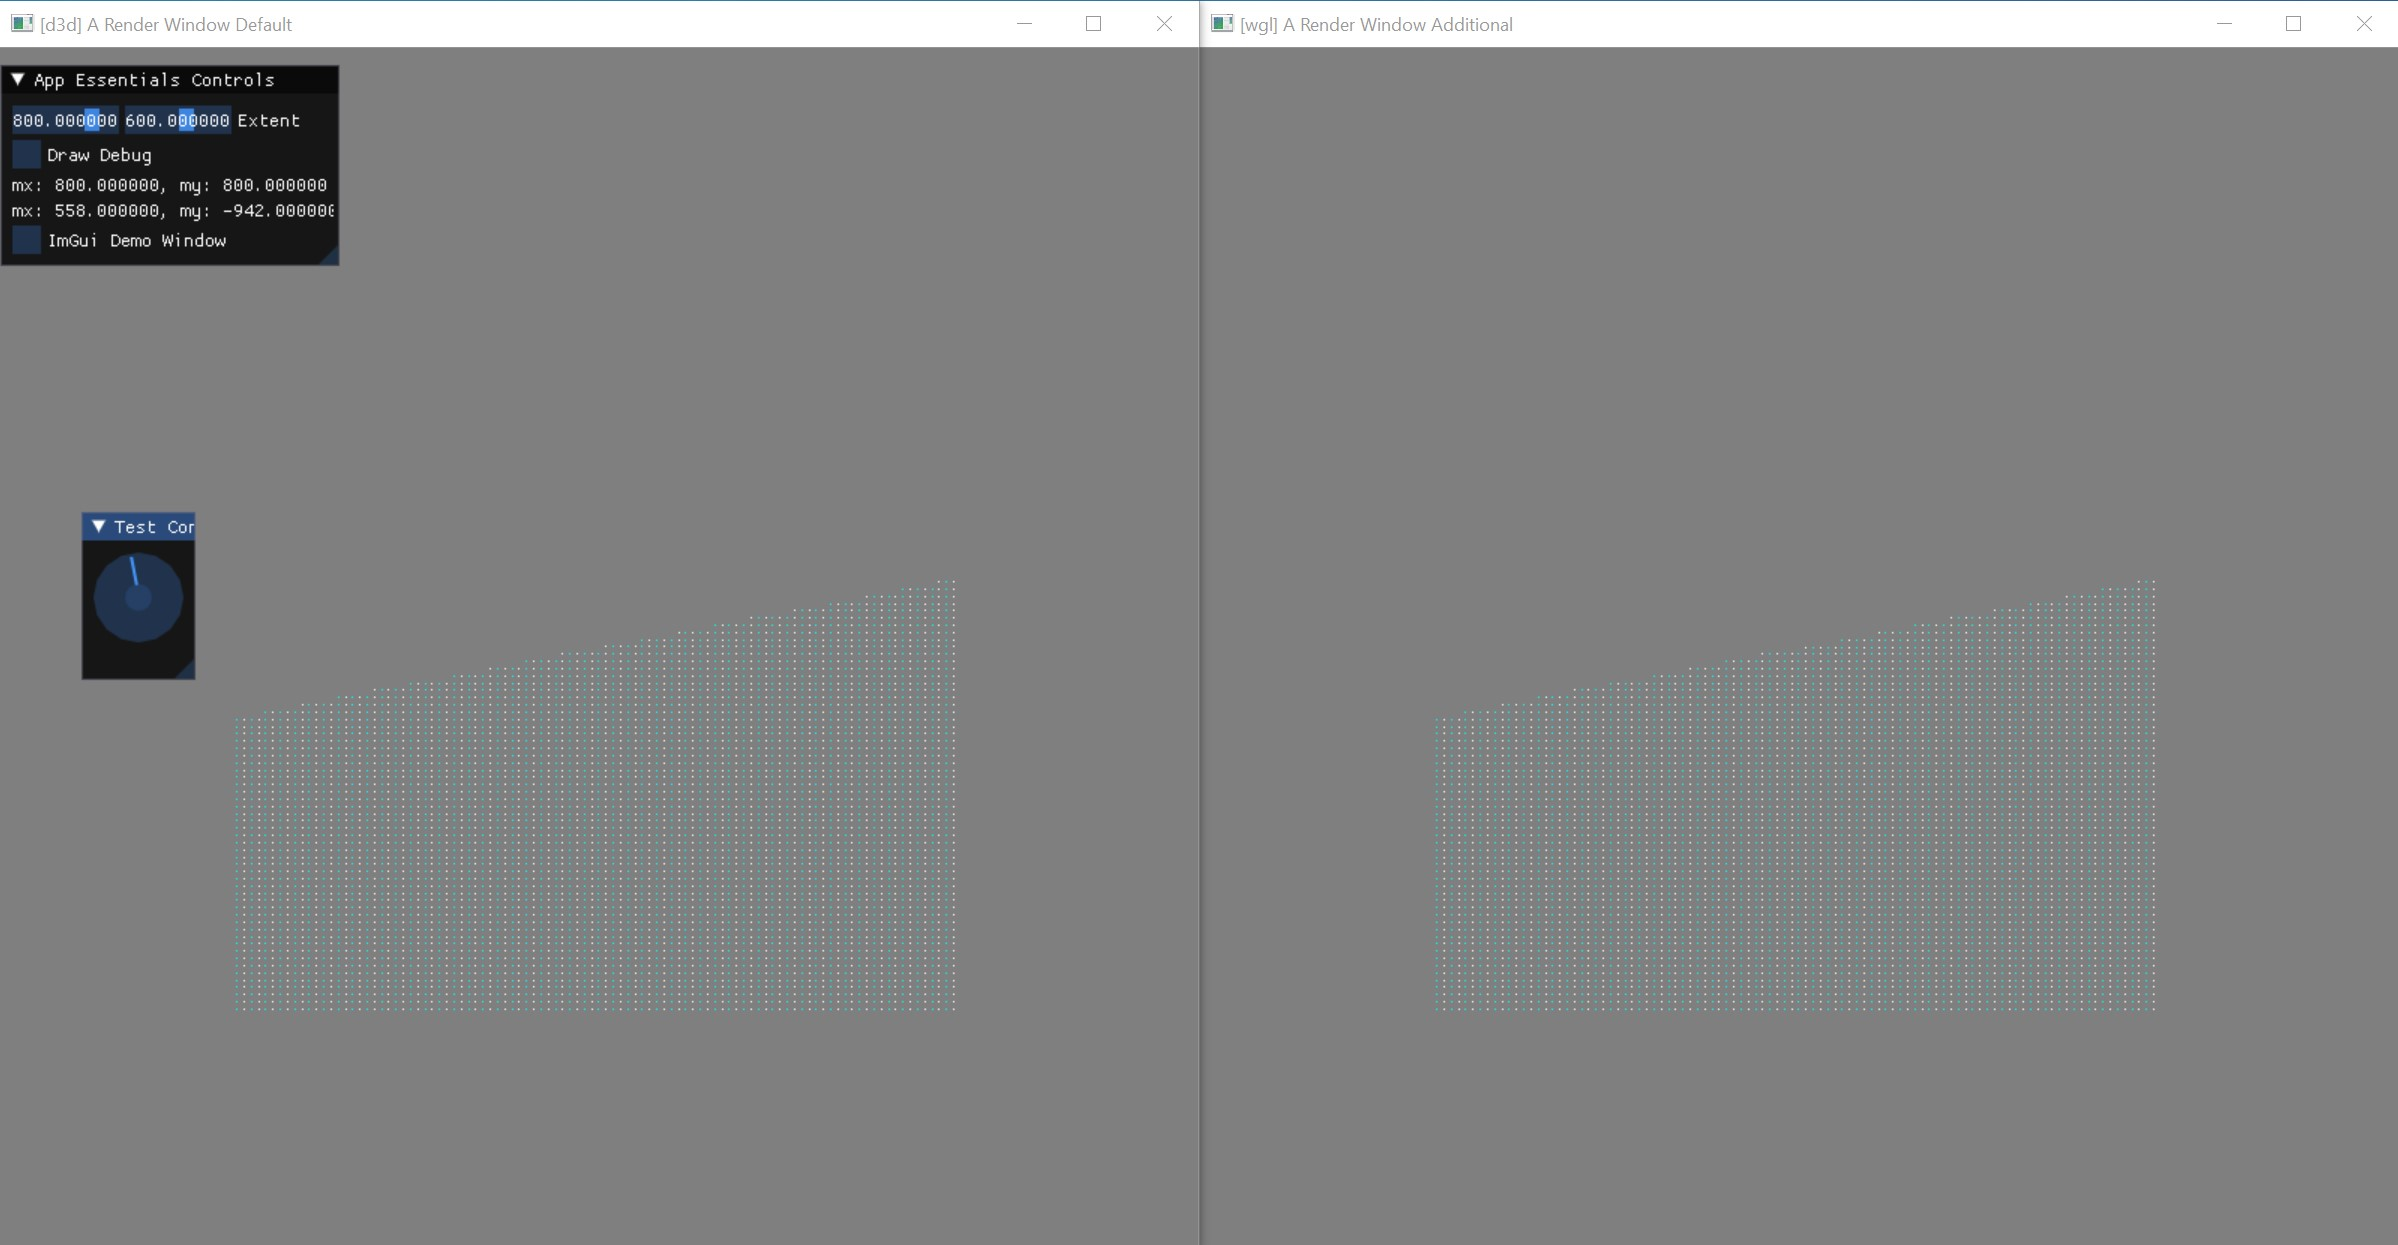
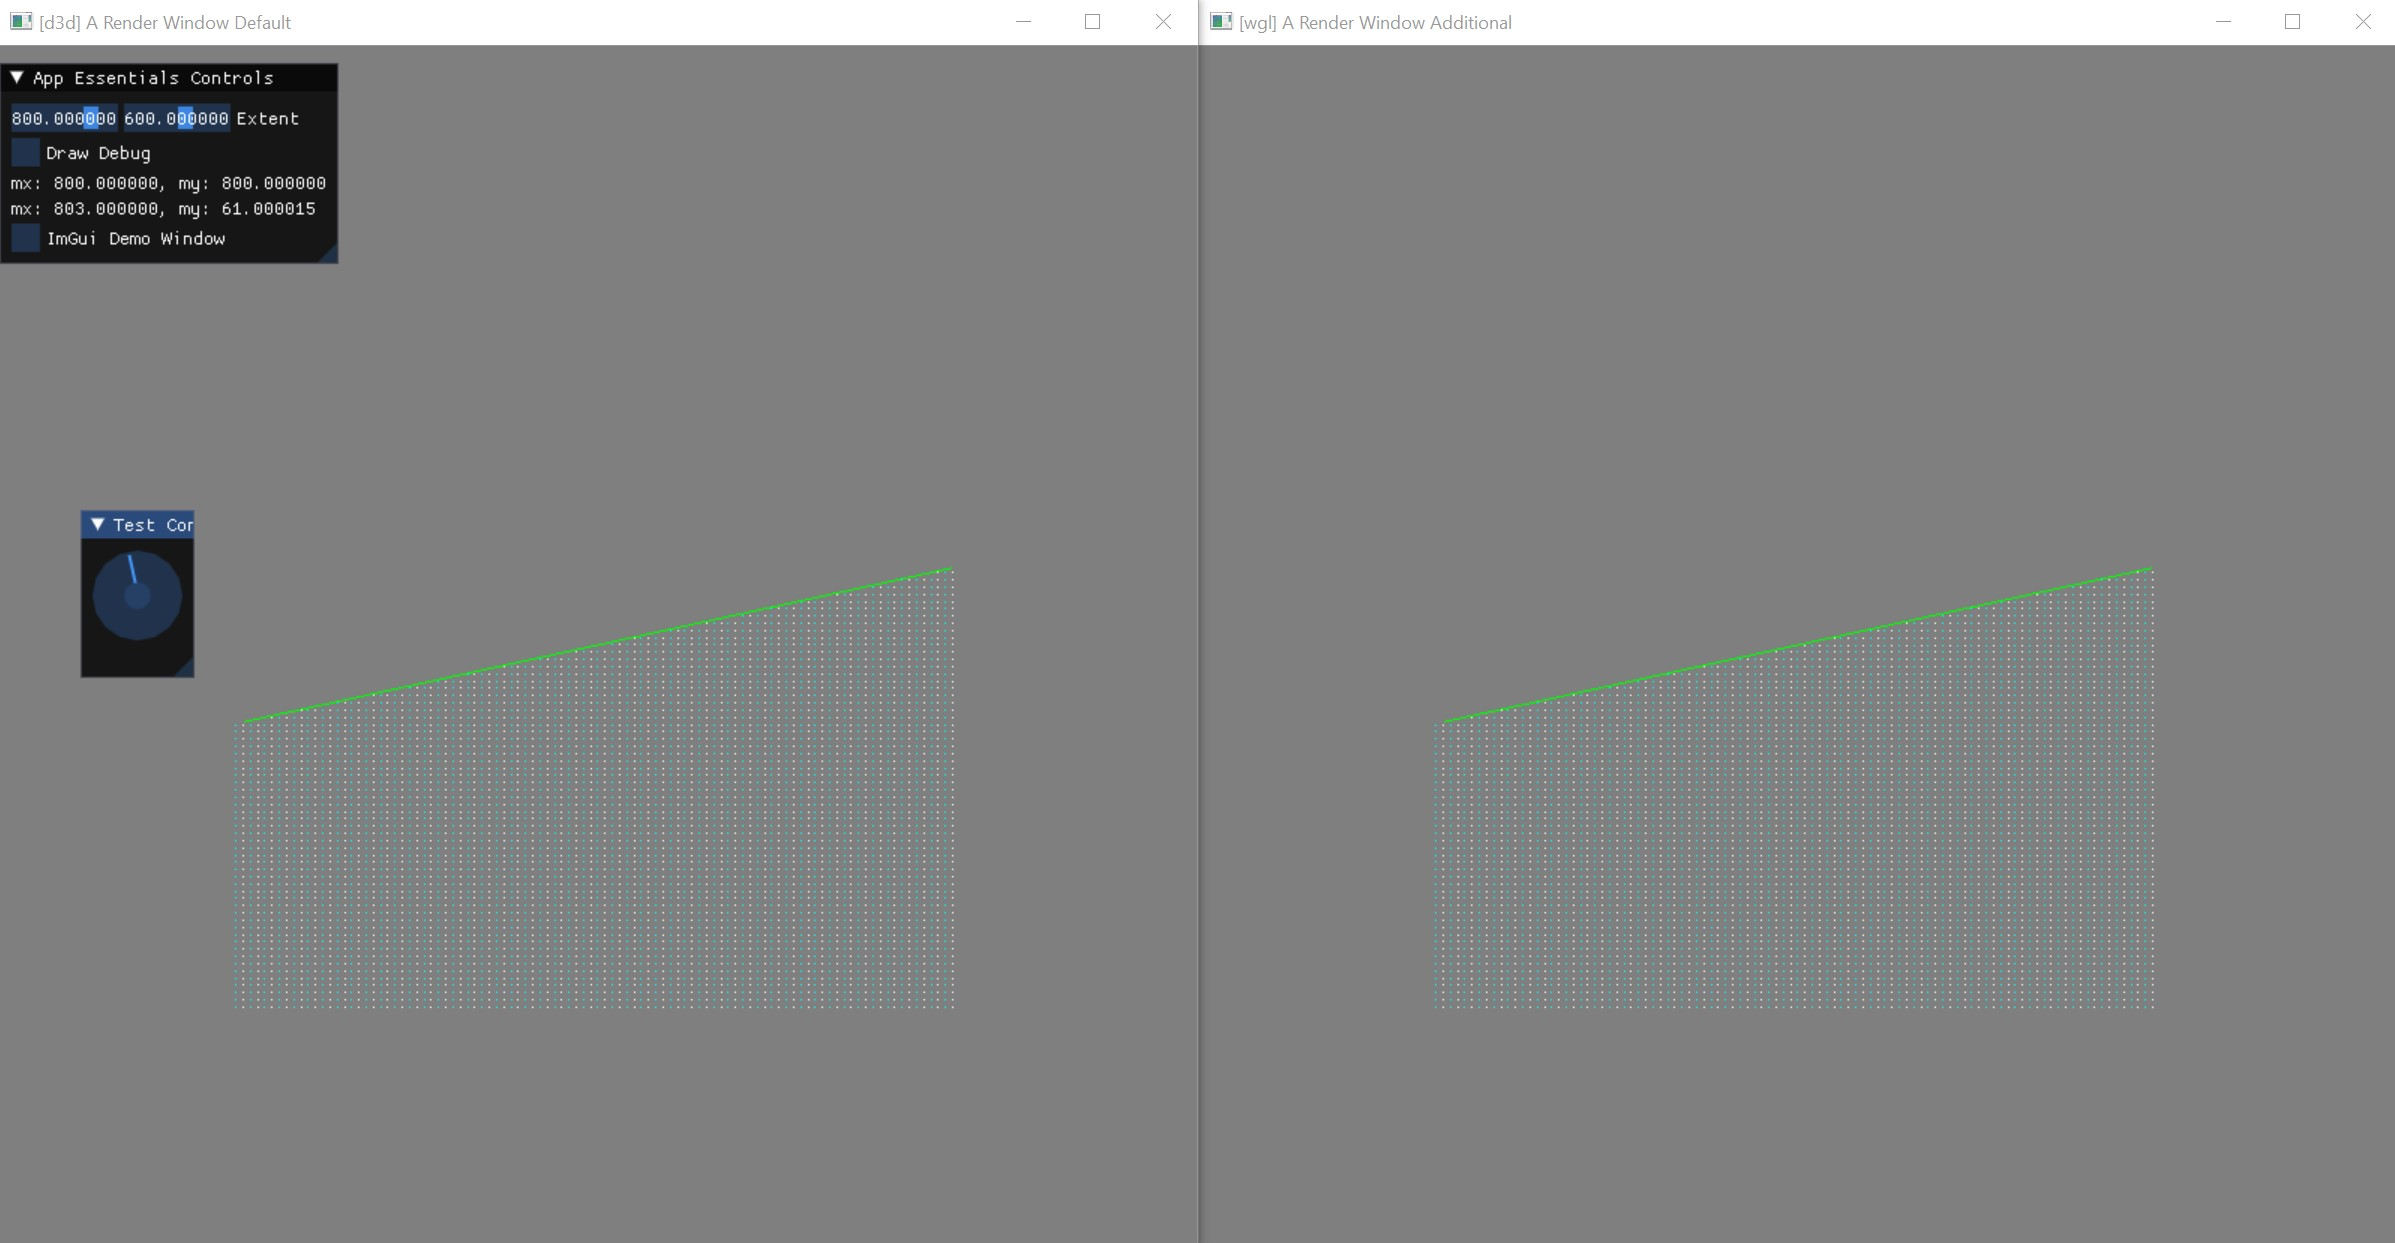
drawing the plane line and new image

diff --git a/33_3_geometry_shader/main.cpp b/33_3_geometry_shader/main.cpp
@@ -224,10 +224,6 @@ namespace this_file
 
                                     // filter out all vertice above the plane
                                     if( dot( plane, out.pos.xyz ) < 0.0 ) { emit_vertex() ; end_primitive() ; }
-
-                                    
-
-                                    
                                 }
                                 //end_primitive() ;
                             }
@@ -398,6 +394,18 @@ namespace this_file
             } ) ;
 
             _ae.on_graphics_begin( rd ) ;
+
+            // draw the cutting plane
+            {
+                auto dir2 = dir.xy().normalized().ortho() ;
+                natus::math::mat2f_t basis ;
+                basis.set_column( 0, dir ) ;
+                basis.set_column( 1, dir2 ) ;
+
+                natus::math::vec2f_t p0 = basis * natus::math::vec2f_t(0.0f, -250.0f ) ;
+                natus::math::vec2f_t p1 = basis * natus::math::vec2f_t(0.0f, +250.0f ) ;
+                _ae.get_prim_render()->draw_line( 0, p0, p1, natus::math::vec4f_t( 0.0f, 1.0f, 0.0f, 1.0f ) ) ;
+            }
 
             _ro->for_each( [&] ( size_t const i, natus::graphics::variable_set_res_t const& vs )
             {
